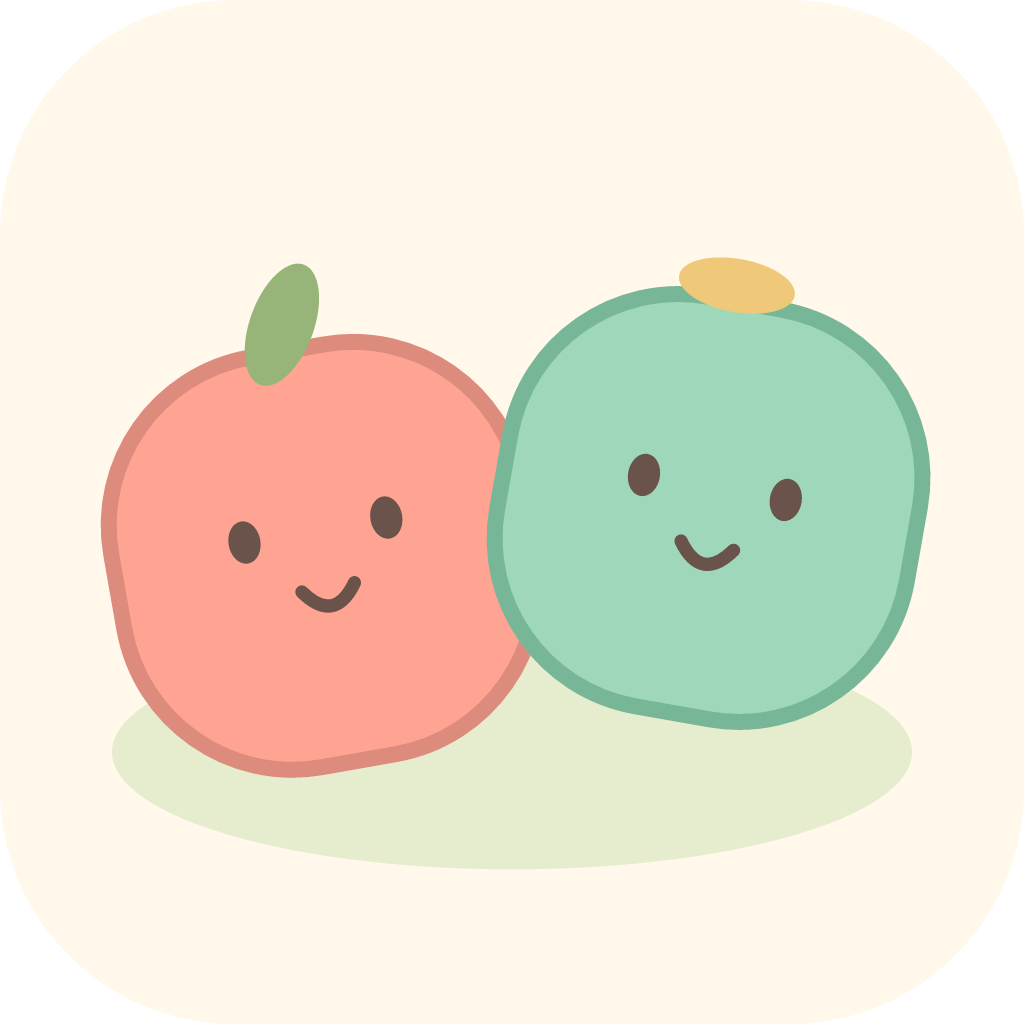
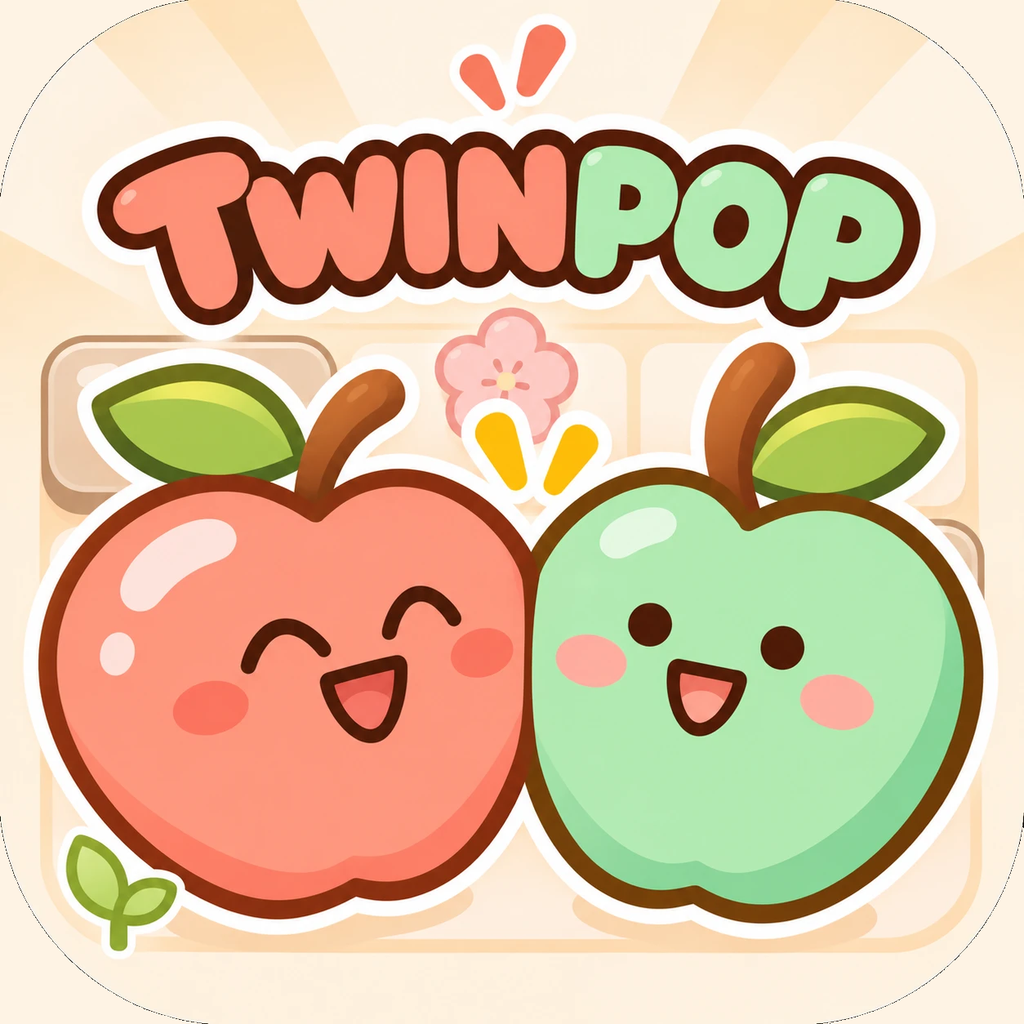
feat(brand): 앱 아이콘 교체 및 홈 로고 영문 통일
- 전달받은 TWINPOP 일러스트로 앱 아이콘·스플래시·파비콘 교체(모서리 배경색 처리, 원본 보관)
- 홈 로고를 모든 언어에서 TWIN / POP! 영문 로고로 통일
- 기존 SVG 아이콘 생성 스크립트 제거

diff --git a/src/components/HomeScreen.tsx b/src/components/HomeScreen.tsx
@@ -6,12 +6,11 @@ import {SvgXml} from 'react-native-svg';
 import {AppText as Text} from './AppText';
 import {Character} from './Character';
 import {Icon} from './Icon';
-import {homeLogoSvg,homeLogoAspect} from '../art/homeLogo';
 import {homeLogoGlobalSvg,homeLogoGlobalAspect} from '../art/homeLogoGlobal';
-import {lang,t} from '../i18n';
+import {t} from '../i18n';
 
-/** 한국어는 '트윈팝! TWINPOP' 로고, 그 외 언어는 'TWIN / POP!' 두 줄 로고 */
-const LOGO=lang==='ko'?{svg:homeLogoSvg,aspect:homeLogoAspect}:{svg:homeLogoGlobalSvg,aspect:homeLogoGlobalAspect};
+/** 홈 로고: 모든 언어에서 영문 'TWIN / POP!' 두 줄 로고 */
+const LOGO={svg:homeLogoGlobalSvg,aspect:homeLogoGlobalAspect};
 
 function Sparkle({size=23}:{size?:number}){return <Svg width={size} height={size} viewBox="0 0 40 40"><Path d="M20 1Q24 15 39 20Q24 25 20 39Q16 25 1 20Q16 15 20 1Z" fill="#f4c878"/></Svg>}
 function Flower({size=24,color='#f1d381'}:{size?:number;color?:string}){return <Svg width={size} height={size} viewBox="0 0 40 40">{[0,72,144,216,288].map(angle=><Ellipse key={angle} cx={20} cy={10} rx={4.5} ry={10} fill={color} transform={`rotate(${angle} 20 20)`}/>)}<Circle cx={20} cy={20} r={3} fill="#fff4d5"/></Svg>}
